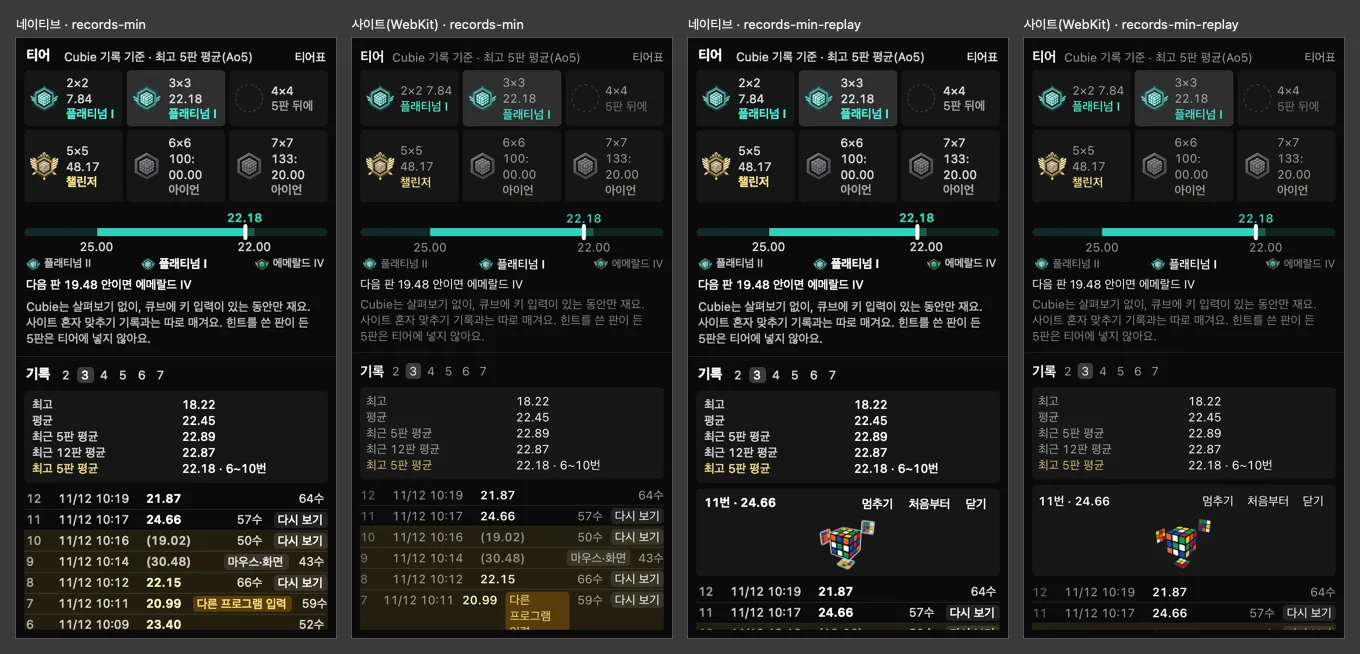
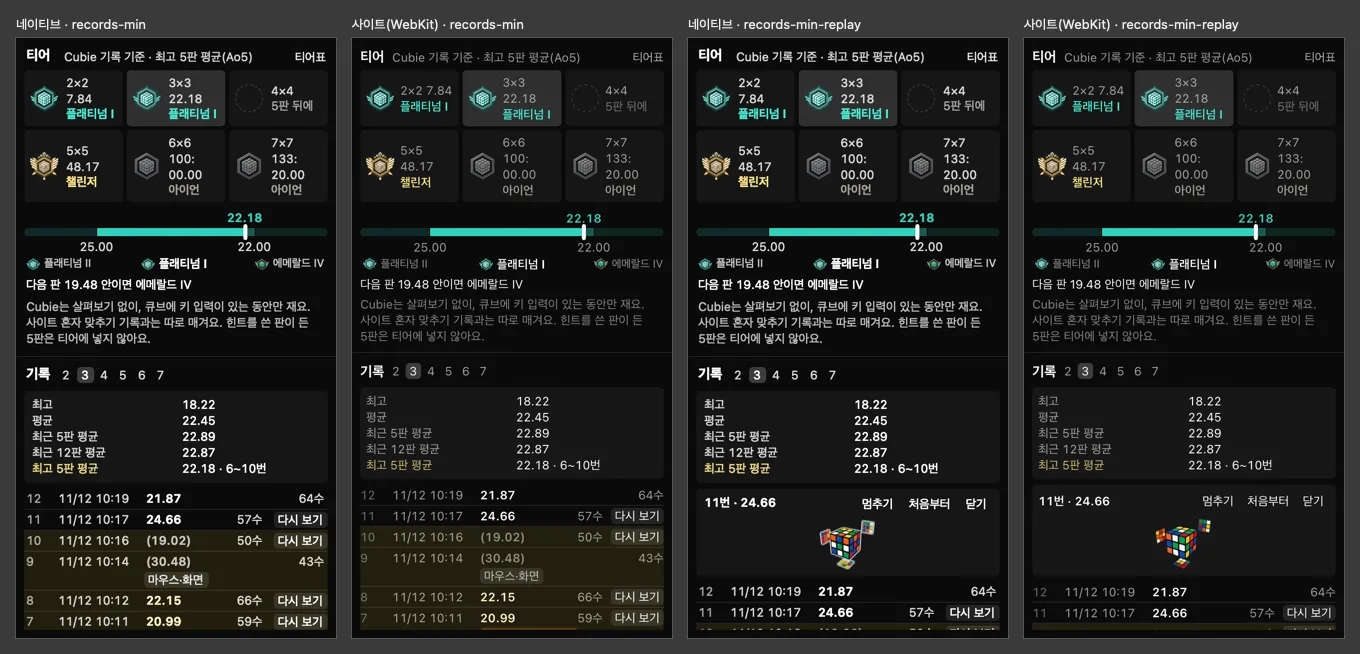
320 기록 창: 표시 칩은 시간 칸 아래 둘째 줄에 한 줄로(앱·사이트)
320×600 비교판에서 사이트 7번 줄 「다른 프로그램 입력」 칩이 세 줄로
접혀 줄이 높아지고 아래가 잘렸다. 앱은 칩을 한 줄에 넣는 대신 「다시
보기」가 줄 오른쪽 밖으로 밀려 보이지 않았다. 줄 폭이 340보다 좁으면
칩 묶음을 시간 칸 아래 둘째 줄(왼쪽 120)로 내리는 규칙을 앱
(RecordsSheet.badgesOnOwnLine, RecordRowView 줄마다 높이)과 사이트
(@container, @max-[340px])에 같이 둔다.

화면 시험에 칩·글 칸이 한 줄씩 줄 안에 있는지와 칩 자리(둘째 줄, 120)를
더했다(고치기 전 빌드에서 「다른 프로그램 입력」 3줄로 실패 확인).
비교판 compare-windows-records-min.webp를 다시 찍었다.

Changed region(s): [[0.0309, 0.8257, 0.2471, 0.9786], [0.2779, 0.8257, 0.4941, 0.9786]]

diff --git a/apps/web/src/cube/mini/MiniCubeApp.tsx b/apps/web/src/cube/mini/MiniCubeApp.tsx
@@ -1966,15 +1966,18 @@ function RecordsPanel({
                 key={`${r.no}-${r.at}`}
                 data-mini-record
                 {...(mark ? { "data-mini-best-five": mark } : {})}
-                // 가장 좁은 창(320)에서도 번호·때·시간·수·「다시 보기」는 한 덩이로(「59 / 수」, 「다시 보 / 기」로
-                // 끊지 않는다). 입력 표시 칩만 낱말 사이에서 줄을 바꾼다(docs/52 5-15)
+                // 줄 안 글은 갈라 줄을 바꾸지 않는다(「59 / 수」, 「다시 보 / 기」 아님). 줄 폭이 340px보다 좁으면
+                // (가장 작은 창 320) 입력 표시 칩 묶음을 시간 칸 아래 둘째 줄로 내린다. 앱 `RecordRowView`가 같은
+                // 폭(`RecordsSheet.badgesWrapBelow`)에서 같은 자리(왼쪽 120px)로 내린다(docs/52 5-15)
                 className={cn(
-                  "flex items-start gap-2 whitespace-nowrap border-white/10 border-b py-0.5",
+                  "@container flex flex-wrap items-start gap-x-2 gap-y-0.5 whitespace-nowrap border-white/10 border-b py-0.5",
                   mark && "bg-amber-300/10",
                 )}
               >
-                <span className="w-6 text-white/40">{r.no}</span>
-                <span className="w-20 text-white/60">{shortTime(r.at)}</span>
+                <span className="w-6 shrink-0 text-white/40">{r.no}</span>
+                <span className="w-20 shrink-0 text-white/60">
+                  {shortTime(r.at)}
+                </span>
                 {/* 최고 5판 평균에서 빠진 가장 빠른·느린 판은 대회 표기처럼 괄호 */}
                 <span
                   className={cn(
@@ -1984,30 +1987,39 @@ function RecordsPanel({
                 >
                   {out ? `(${formatMs(r.ms)})` : formatMs(r.ms)}
                 </span>
-                {/* 실제 키보드가 아닌 입력이 섞인 판만 표시(막지는 않는다) */}
-                {r.keyOrigin === "synthetic" && (
+                {(r.keyOrigin === "synthetic" ||
+                  r.inputs?.includes("swipe") ||
+                  (r.hints ?? 0) > 0) && (
                   <span
-                    data-mini-source="synthetic"
-                    className="whitespace-normal break-keep rounded bg-amber-500/25 px-1 text-amber-200"
+                    data-mini-badges
+                    className="flex gap-2 @max-[340px]:order-last @max-[340px]:basis-full @max-[340px]:gap-1 @max-[340px]:pl-[120px]"
                   >
-                    다른 프로그램 입력
-                  </span>
-                )}
-                {r.inputs?.includes("swipe") && (
-                  <span
-                    data-mini-source="swipe"
-                    className="whitespace-normal break-keep rounded bg-white/10 px-1 text-white/70"
-                  >
-                    마우스·화면
-                  </span>
-                )}
-                {(r.hints ?? 0) > 0 && (
-                  <span
-                    data-mini-record-hints={r.hints}
-                    title="힌트를 본 판이 든 5판은 티어에 넣지 않아요"
-                    className="rounded bg-sky-500/25 px-1 text-sky-200"
-                  >
-                    힌트 {r.hints}번
+                    {/* 실제 키보드가 아닌 입력이 섞인 판만 표시(막지는 않는다) */}
+                    {r.keyOrigin === "synthetic" && (
+                      <span
+                        data-mini-source="synthetic"
+                        className="rounded bg-amber-500/25 px-1 text-amber-200"
+                      >
+                        다른 프로그램 입력
+                      </span>
+                    )}
+                    {r.inputs?.includes("swipe") && (
+                      <span
+                        data-mini-source="swipe"
+                        className="rounded bg-white/10 px-1 text-white/70"
+                      >
+                        마우스·화면
+                      </span>
+                    )}
+                    {(r.hints ?? 0) > 0 && (
+                      <span
+                        data-mini-record-hints={r.hints}
+                        title="힌트를 본 판이 든 5판은 티어에 넣지 않아요"
+                        className="rounded bg-sky-500/25 px-1 text-sky-200"
+                      >
+                        힌트 {r.hints}번
+                      </span>
+                    )}
                   </span>
                 )}
                 <span className="text-white/60">{r.moves}수</span>

diff --git a/apps/cubie/Sources/Cubie/NativeRecordsWindow.swift b/apps/cubie/Sources/Cubie/NativeRecordsWindow.swift
@@ -293,11 +293,14 @@ final class RecordsRootView: FlippedView {
     }
     empty.frame = NSRect(x: 8, y: listTop, width: inner, height: 16)
     scroll.frame = NSRect(x: 8, y: listTop, width: inner, height: max(0, bottom - listTop))
-    let rowH = RecordRowView.height
-    for (i, r) in rows.enumerated() {
-      r.frame = NSRect(x: 0, y: CGFloat(i) * rowH, width: inner, height: rowH)
+    // 줄 높이는 줄마다(좁은 창에서 칩 묶음을 둘째 줄로 내린 줄은 더 높다)
+    var ry: CGFloat = 0
+    for r in rows {
+      let rh = r.height(width: inner)
+      r.frame = NSRect(x: 0, y: ry, width: inner, height: rh)
+      ry += rh
     }
-    list.frame = NSRect(x: 0, y: 0, width: inner, height: max(scroll.frame.height, CGFloat(rows.count) * rowH))
+    list.frame = NSRect(x: 0, y: 0, width: inner, height: max(scroll.frame.height, ry))
   }
 }
 
@@ -537,9 +540,17 @@ final class TierCell: FlippedView {
 @MainActor
 final class RecordRowView: FlippedView {
   static let height: CGFloat = 21
+  /// 칩 묶음을 둘째 줄로 내린 줄의 더 높아지는 몫(칩 16 + 사이 2)
+  static let badgeLine: CGFloat = 18
   let row: RecordsSheet.Row
   private(set) var replayButton: Chip?
   private var parts: [NSView] = []
+  private var badges: [NSView] = []
+
+  /// 폭 `w`에서 이 줄의 높이(칩 묶음을 둘째 줄로 내리면 더 높다, `RecordsSheet.badgesOnOwnLine`)
+  func height(width w: CGFloat) -> CGFloat {
+    RecordsSheet.badgesOnOwnLine(width: Double(w), badges: badges.count) ? Self.height + Self.badgeLine : Self.height
+  }
   private let line = FlippedView()
 
   /// 티어를 정한 5판이면 그 몫(밝은 바탕, 빠진 두 판은 괄호·흐리게, 사이트 `data-mini-best-five`)
@@ -571,6 +582,7 @@ final class RecordRowView: FlippedView {
       h.toolTip = RecordsSheet.hintsTip
       badges.append(h)
     }
+    self.badges = badges
     parts += badges
     parts.append(NUI.label(RecordsSheet.moves(row.moves), color: NUI.white(0.6)))
     if row.canReplay {
@@ -590,15 +602,28 @@ final class RecordRowView: FlippedView {
     // 번호 w-6, 때 w-20, 시간은 남은 자리(flex-1), 나머지는 글 폭대로. 칸 사이 8
     parts[0].frame = NSRect(x: 0, y: y, width: 24, height: h)
     parts[1].frame = NSRect(x: 32, y: y, width: 80, height: h)
-    // 시간 칸은 글보다 줄지 않는다(사이트 flex-1의 최소 폭). 자리가 모자라면 오른쪽 칸들이 밀린다
-    let widths = parts[3...].map { ($0 as? Chip)?.fit.width ?? NUI.width($0 as! NSTextField) }
+    // 시간 칸은 글보다 줄지 않는다(사이트 flex-1의 최소 폭). 좁은 줄은 칩 묶음을 시간 칸 아래 둘째 줄로 내린다
+    let below = RecordsSheet.badgesOnOwnLine(width: Double(bounds.width), badges: badges.count)
+    let fit = { (v: NSView) in (v as? Chip)?.fit.width ?? NUI.width(v as! NSTextField) }
+    let inline = parts[3...].filter { v in !(below && badges.contains(where: { $0 === v })) }
+    let widths = inline.map(fit)
     let rightW = widths.reduce(0, +) + CGFloat(widths.count) * 8
-    let timeW = max(NUI.width(parts[2] as! NSTextField), bounds.width - 120 - rightW)
-    parts[2].frame = NSRect(x: 120, y: y, width: timeW, height: h)
-    var x = 120 + timeW + 8
-    for (v, w) in zip(parts[3...], widths) {
+    let indent = CGFloat(RecordsSheet.badgesIndent)
+    let timeW = max(NUI.width(parts[2] as! NSTextField), bounds.width - indent - rightW)
+    parts[2].frame = NSRect(x: indent, y: y, width: timeW, height: h)
+    var x = indent + timeW + 8
+    for (v, w) in zip(inline, widths) {
       v.frame = NSRect(x: x, y: y, width: w, height: h)
       x += w + 8
+    }
+    if below {
+      // 사이트 칩 사이 `gap-1`
+      var bx = indent
+      for v in badges {
+        let w = fit(v)
+        v.frame = NSRect(x: bx, y: y + h + 2, width: w, height: h)
+        bx += w + 4
+      }
     }
     line.frame = NSRect(x: 0, y: bounds.height - 1, width: bounds.width, height: 1)
   }

diff --git a/apps/web/e2e/cube-tiers.spec.ts b/apps/web/e2e/cube-tiers.spec.ts
@@ -822,21 +822,27 @@ test(
   },
 );
 
-/** 기록 줄마다 입력 표시 칩 밖의 글(번호·때·시간·수·「다시 보기」)이 두 줄로 갈린 것 */
+/** 기록 줄마다 글 칸(번호·때·시간·입력 표시 칩 하나하나·수·「다시 보기」)이 두 줄로 갈렸거나 줄 밖으로 나간 것 */
 function recordRowSplits(page: Page) {
   return page.evaluate(() => {
     const out: string[] = [];
     for (const li of document.querySelectorAll<HTMLElement>(
       "[data-mini-record]",
     )) {
-      for (const c of li.children) {
-        if (c.matches("[data-mini-source]")) continue;
+      const row = li.getBoundingClientRect();
+      const cells = [...li.children].flatMap((c) =>
+        c.matches("[data-mini-badges]") ? [...c.children] : [c],
+      );
+      for (const c of cells) {
         const range = document.createRange();
         range.selectNodeContents(c);
         const tops = new Set(
           [...range.getClientRects()].map((r) => Math.round(r.top)),
         );
         if (tops.size > 1) out.push(`「${c.textContent}」 ${tops.size}줄`);
+        const r = c.getBoundingClientRect();
+        if (r.right > row.right + 0.5 || r.left < row.left - 0.5)
+          out.push(`「${c.textContent}」 줄 밖`);
       }
     }
     return out;
@@ -844,7 +850,7 @@ function recordRowSplits(page: Page) {
 }
 
 test(
-  "Cubie 기록 창 가장 작은 크기(320×600): 기록 줄의 시간·수·「다시 보기」는 갈리지 않고, 다시 보기 큐브는 상자 안에 든다",
+  "Cubie 기록 창 가장 작은 크기(320×600): 기록 줄의 글 칸과 표시 칩은 한 줄씩 줄 안에(칩은 시간 칸 아래 둘째 줄), 다시 보기 큐브는 상자 안에 든다",
   { tag: "@only-desktop" },
   async ({ page }, info) => {
     await page.addInitScript(() => {
@@ -880,6 +886,19 @@ test(
     await page.goto("/cube/mini?view=records");
     await expect(page.locator("[data-mini-source='synthetic']")).toBeVisible();
     await expect.poll(() => recordRowSplits(page)).toEqual([]);
+    // 칩 묶음은 시간 칸 아래 둘째 줄, 왼쪽 120px(앱 `RecordsSheet.badgesIndent`와 같은 자리)
+    const chip = await page
+      .locator("[data-mini-source='synthetic']")
+      .evaluate((e) => {
+        const li = e.closest("[data-mini-record]") as HTMLElement;
+        const time = (li.children[2] as HTMLElement).getBoundingClientRect();
+        const r = e.getBoundingClientRect();
+        return {
+          left: Math.round(r.left - li.getBoundingClientRect().left),
+          below: r.top >= time.bottom - 0.5,
+        };
+      });
+    expect(chip).toEqual({ left: 120, below: true });
     await noSideScroll(page);
     await page.locator("[data-mini-replay-open]").first().click();
     const box = page.locator("[data-mini-replay]");

diff --git a/apps/cubie/Sources/CubieCore/RecordsSheet.swift b/apps/cubie/Sources/CubieCore/RecordsSheet.swift
@@ -50,6 +50,18 @@ public enum RecordsSheet {
     return MiniBook.formatMs(v)
   }
 
+  // MARK: 기록 줄
+
+  /// 기록 줄 폭이 이보다 좁으면 입력 표시 칩(다른 프로그램 입력·마우스·화면·힌트) 묶음을 시간 칸 아래 둘째 줄로 내린다.
+  /// 가장 작은 창(320, 줄 폭 304)에서 칩과 수·「다시 보기」를 한 줄에 다 넣으면 「다시 보기」가 줄 밖으로 밀렸다.
+  /// 사이트 `RecordsPanel`도 같은 폭(`@max-[340px]`)에서 같은 자리로 내린다(docs/52 5-15)
+  public static let badgesWrapBelow: Double = 340
+  /// 둘째 줄 칩 묶음의 왼쪽 자리(번호 24 + 8 + 때 80 + 8, 시간 칸과 같은 x)
+  public static let badgesIndent: Double = 120
+
+  /// 그 폭의 줄에서 칩 묶음을 둘째 줄로 내리나
+  public static func badgesOnOwnLine(width: Double, badges: Int) -> Bool { badges > 0 && width < badgesWrapBelow }
+
   // MARK: 티어 칸
 
   /// 티어 칸 위 글(「6×6 1:40.00」, 티어가 없으면 「6×6 」, 사이트 `MiniTiers`)

diff --git a/apps/cubie/Tests/CubieCoreTests/RecordsSheetTests.swift b/apps/cubie/Tests/CubieCoreTests/RecordsSheetTests.swift
@@ -88,4 +88,13 @@ struct RecordsSheetTests {
     #expect(ReplayPlayer.moveMs(steps, 2, base: 90) == 90)
     #expect(ReplayPlayer.moveMs([ReplayPlayer.Step(at: 0, moves: "R"), ReplayPlayer.Step(at: 10, moves: "U")], 0, base: 90) == 40)
   }
+
+  /// 가장 작은 창(320, 줄 폭 304)에서 칩과 「다시 보기」를 한 줄에 넣으면 「다시 보기」가 줄 밖으로 밀렸다(docs/52 5-15)
+  @Test func narrowRowsPutBadgesOnTheirOwnLine() {
+    let rowWidth = { (window: Double) in window - 16 }
+    #expect(RecordsSheet.badgesOnOwnLine(width: rowWidth(SheetSize.records.minWidth), badges: 1))
+    #expect(!RecordsSheet.badgesOnOwnLine(width: rowWidth(SheetSize.records.width), badges: 2))
+    // 칩이 없는 줄은 좁아도 한 줄
+    #expect(!RecordsSheet.badgesOnOwnLine(width: rowWidth(SheetSize.records.minWidth), badges: 0))
+  }
 }

diff --git a/docs/52-cubie-native.md b/docs/52-cubie-native.md
@@ -994,7 +994,7 @@ node apps/cubie/scripts/mirror-compare.mjs sheet <결과.png> <전 폴더> <후 
   시험 `SheetSizeTests`, 비교판 `docs/cubie-native/compare-windows-records-min.webp`(320×600, 왼쪽 네이티브·오른쪽 사이트 WebKit).
 - **숫자와 단위**: 320 기록 창 안내 문단이 「힌트를 쓴 판이 든 5 / 판은」으로 끊겼다. AppKit 낱말 단위 줄바꿈(`.hangulWordPriority`)은 숫자와 바로 붙은 한글 사이도 끊을 수 있는 자리로 본다. `CubieCore/TextWrap.swift` `keepNumberUnits`가 숫자와 그 뒤 한글 단위, 숫자 사이 기호(`. : ~ × % ,`) 둘레에 폭 없는 줄바꿈 막는 글자(U+2060)를 넣고, 앱 글을 그리는 공통 자리(`NUI.attributed`, 말풍선 `HintBubble` 안내 글, 단축키 표 아래 글)가 부른다. 띄어 쓴 자리는 그대로 끊긴다. 말풍선(공식 연습·홈 시연)도 낱말 단위 줄바꿈을 켰다. 사이트는 `break-keep`이 「5판」을 붙여 두어 320에서도 끊기지 않았다(WebKit이 「:」 뒤를 끊는 시간 글은 `NoBreakTimes`, docs/47 14-8). 시험 `TextWrapTests`(도우미를 일부러 빼면 실패 확인).
 - **1분 넘는 시간의 단위**: 「최고 5판 평균을 20:00.00초 줄여야 해요」처럼 분:초 꼴 뒤에도 「초」를 붙여 20초처럼 읽혔다. 1분 아래만 「12.34초」, 1분부터는 「20:00.00」으로 내는 사이트 `formatSeconds`(`cube/records.ts`)·앱 `MiniBook.formatSeconds`를 두고, 시간 뒤에 「초」를 붙이던 곳(다음 판 목표 글, 티어 진열 「…까지」 두 줄, 공식 연습 한 판 끝 요약, 오늘의 섞기 공유 글)에 쓴다. 시험 `records.test.ts`·`progress-view.test.ts`·`NativeDataTests`·`TierProgressTests`, 화면 `cube-tiers.spec.ts` 티어 칸 시험.
-- **사이트 기록 창 320×600**(앱이 여는 사이트 창, 같은 비교판에서 찾음): 기록 줄이 「59 / 수」, 「다시 보 / 기」, 「11/12 / 10:11」로 갈렸고, 다시 보기 큐브 칸의 최소 높이(112px) 때문에 큐브가 상자 밖 기록 목록 위로 넘쳤다. 줄은 줄바꿈 없이 두고 입력 표시 칩만 낱말 사이에서 줄을 바꾸며(`whitespace-nowrap`·칩 `break-keep`), 큐브 칸은 앱처럼 남은 높이만 쓴다(`MiniCubeApp.tsx` `RecordsPanel`·`ReplayBox`). 시험 `cube-tiers.spec.ts` 「Cubie 기록 창 가장 작은 크기(320×600)…」(고치기 전 빌드에서 실패 확인).
+- **사이트 기록 창 320×600**(앱이 여는 사이트 창, 같은 비교판에서 찾음): 기록 줄이 「59 / 수」, 「다시 보 / 기」, 「11/12 / 10:11」로 갈렸고, 다시 보기 큐브 칸의 최소 높이(112px) 때문에 큐브가 상자 밖 기록 목록 위로 넘쳤다. 줄 안 글은 줄바꿈 없이 두고, 줄 폭이 340보다 좁으면(가장 작은 창 320) 입력 표시 칩 묶음을 시간 칸 아래 둘째 줄(왼쪽 120)로 내려 칩도 한 줄로 둔다. 앱도 같은 폭·같은 자리로 내린다(`RecordsSheet.badgesOnOwnLine`, `RecordRowView`). 앱은 그전에 한 줄에 다 넣다 「다시 보기」가 줄 오른쪽 밖으로 밀려 보이지 않았다. 큐브 칸은 앱처럼 남은 높이만 쓴다(`MiniCubeApp.tsx` `RecordsPanel`·`ReplayBox`). 시험 `cube-tiers.spec.ts` 「Cubie 기록 창 가장 작은 크기(320×600)…」(고치기 전 빌드에서 실패 확인).
 - 티어표 네이티브 스크린샷(`native-tiers*.png`)을 따로 열면 단추·상자가 흰색으로 보이는데, 문서 보기 바탕이 투명해 그림 보기 프로그램의 흰 바탕이 비친 것이다(비교판 회색 바탕에서는 제 모습). 고칠 것이 아니다.
 - **Cubie 새 판이 필요하다**(세 창과 말풍선은 앱이 그린다).
 
